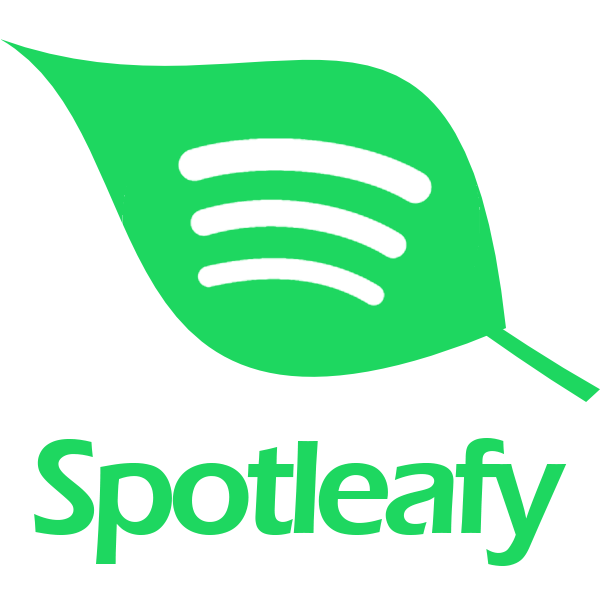
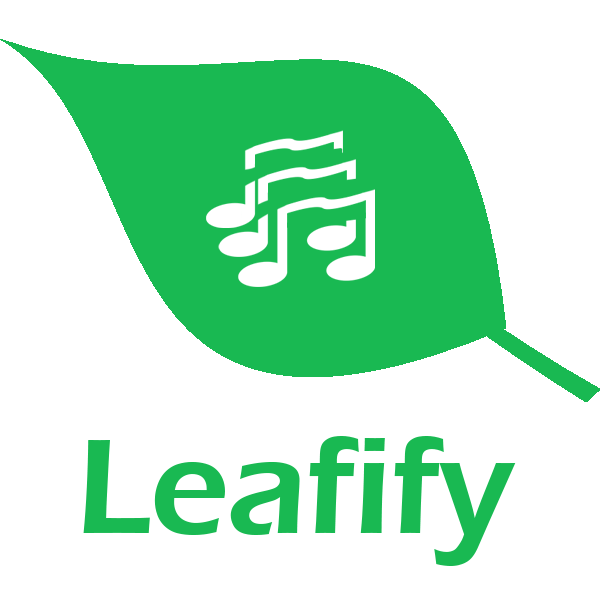
rebrand to leafify

diff --git a/only_otters/app.py b/only_otters/app.py
@@ -7,7 +7,7 @@ class Spotleafy(QtWidgets.QMainWindow):
 
     def __init__(self):
         super().__init__()
-        self.setWindowTitle('Spotleafy')
+        self.setWindowTitle('Leafify')
         self.setWindowIcon(QtGui.QIcon(icons.Logo.str))
         self.setMinimumSize(950, 650)
         self.init_gui()
